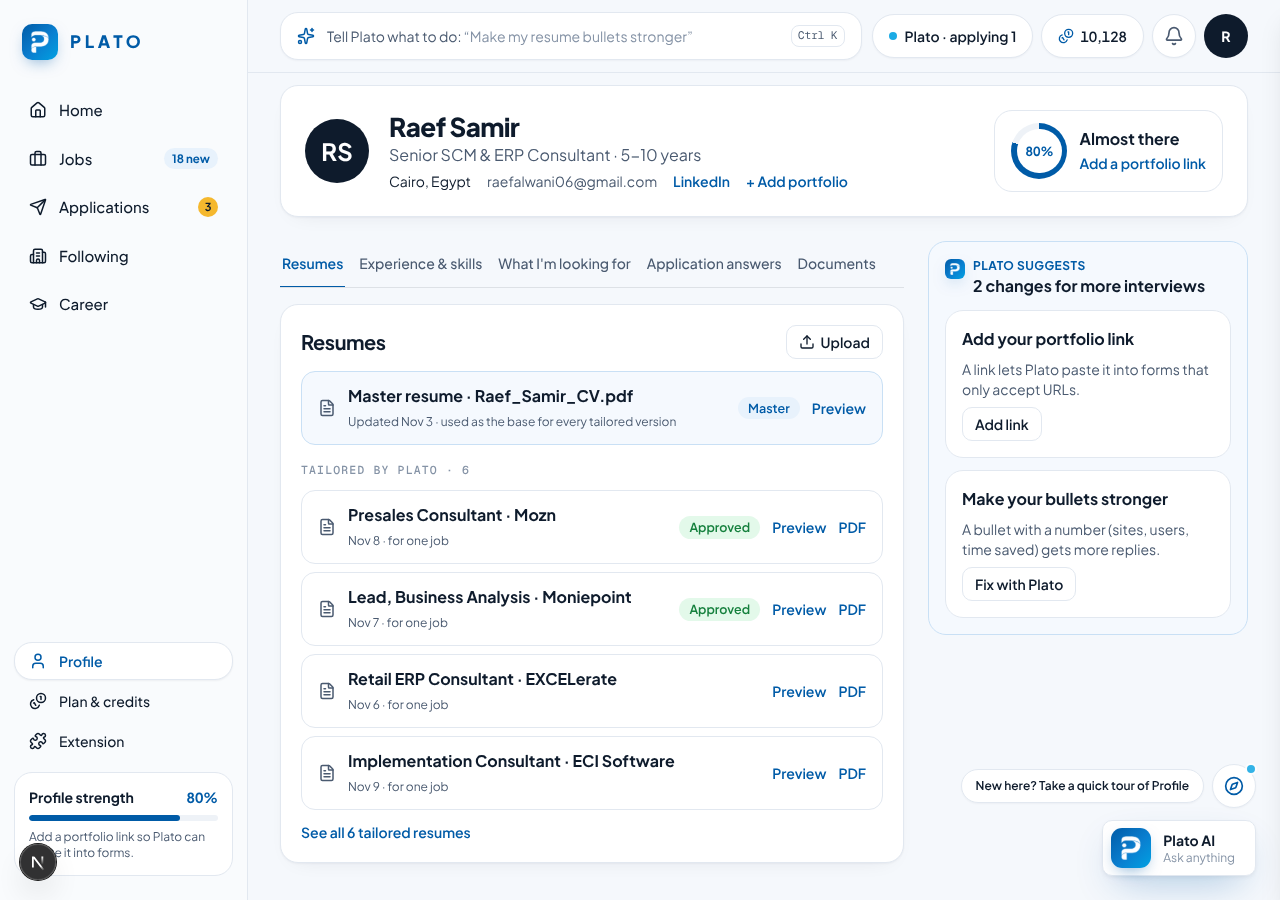
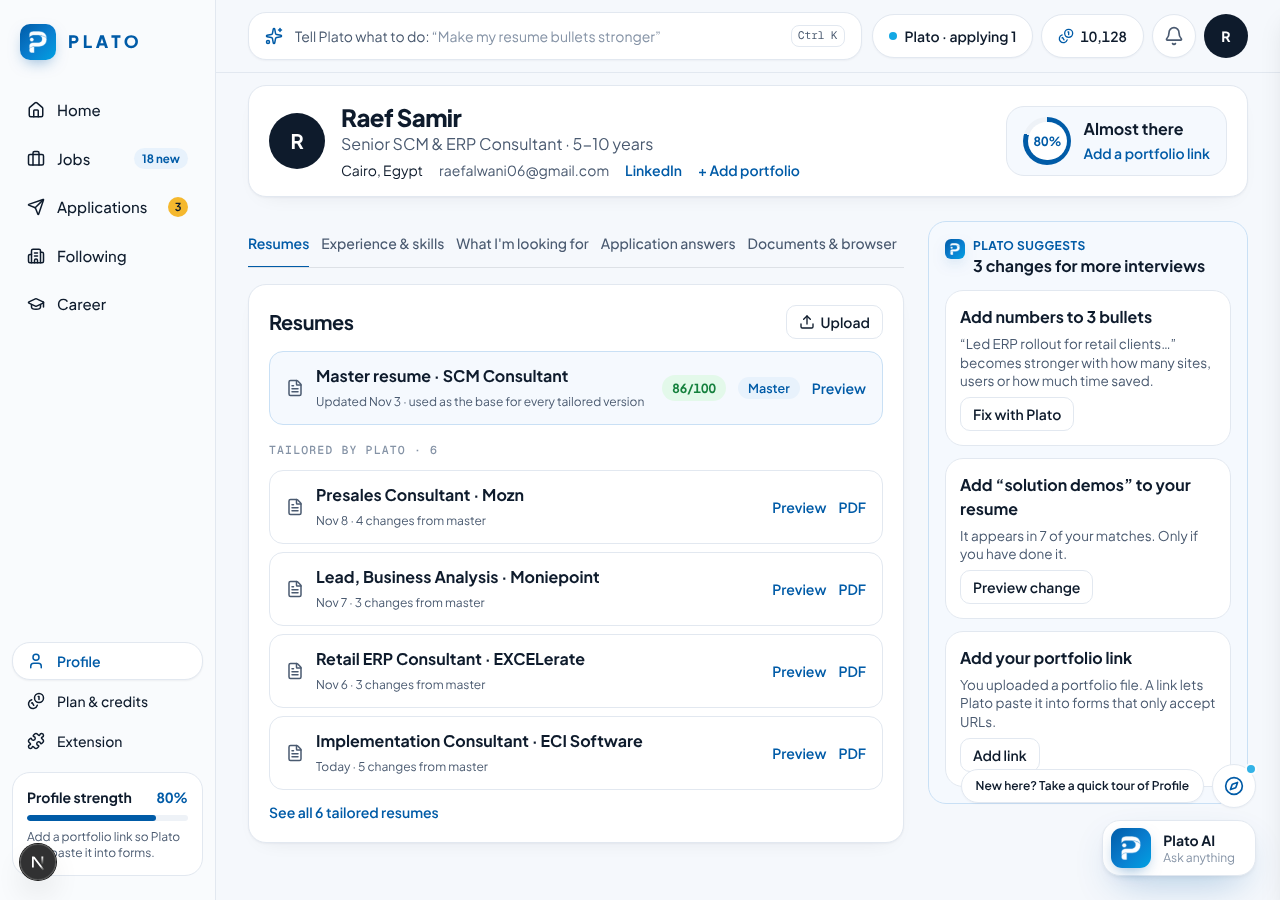
Profile matches the owner's screen 12 more closely
- Header: one-letter avatar, compact card, the strength ring on a tint.
- Tabs back to 'Documents & browser', fitting on one line.
- Master resume named after the target role; each tailored version reads
  'Nov 6 · 4 changes from master' (GET /job-seeker/career/resumes now
  counts the parts that differ from the profile).
- Plato suggests is specific, from the seeker's own data: 'Add numbers to
  3 bullets' quoting one of their bullets (the quality score now returns
  the bullets with no number), a skill that appears in N of their matches
  (only if they have done it), and the portfolio link, noting when a
  portfolio file was uploaded; the apply check's gaps follow.

Claude-Session: https://claude.ai/code/session_01VMzvXqWuLzBBxJrscGtA5K

diff --git a/plato-job-seeker-native-fe/app/(app)/profile/page.tsx b/plato-job-seeker-native-fe/app/(app)/profile/page.tsx
@@ -8,9 +8,10 @@ import { cn } from "cn"
 import { PAGE } from "@/components/page-header"
 import { Skeleton } from "@/components/ui/skeleton"
 import { MatchRing, PlatoNote, StatusPill } from "@/components/plato-ui"
-import { openPlato, useProfileStrength } from "@/components/app-shell"
+import { useProfileStrength } from "@/components/app-shell"
 import { getMe, type AuthUser } from "@/lib/auth/api"
 import { getCareerResume, getResumeScore, listCareerResumes, type ResumeScore } from "@/lib/career/api"
+import { getSkillGap, type SkillGap } from "@/lib/skills/api"
 import { getDocumentFile, getProfile, listDocuments } from "@/lib/documents/api"
 import type { JobSeekerDocument, JobSeekerProfile } from "@/lib/documents/schema"
 import { getExtensionProgress } from "@/lib/extension/api"
@@ -27,7 +28,7 @@ const TABS = [
   { key: "experience", label: "Experience & skills" },
   { key: "looking", label: "What I'm looking for" },
   { key: "answers", label: "Application answers" },
-  { key: "documents", label: "Documents" },
+  { key: "documents", label: "Documents & browser" },
 ] as const
 type Tab = (typeof TABS)[number]["key"]
 type Resume = Awaited<ReturnType<typeof listCareerResumes>>[number]
@@ -52,9 +53,19 @@ function ProfileContent() {
   const [readiness, setReadiness] = useState<ApplyReadiness | null>(null)
   const [linked, setLinked] = useState<boolean | null>(null)
   const strength = useProfileStrength()
+  const [score, setScore] = useState<ResumeScore | null>(null)
+  const [gaps, setGaps] = useState<SkillGap[] | null>(null)
+  const [hasPortfolio, setHasPortfolio] = useState(false)
 
   useEffect(() => {
     getMe().then(setUser).catch(() => undefined)
+    getResumeScore().then(setScore).catch(() => undefined)
+    getSkillGap()
+      .then((g) => setGaps(g.skills))
+      .catch(() => setGaps([]))
+    listDocuments()
+      .then((d) => setHasPortfolio(d.some((x) => x.type === "PORTFOLIO" || /portfolio/i.test(x.name ?? ""))))
+      .catch(() => undefined)
     getProfile().then(setProfile).catch(() => undefined)
     getPreferences().then(setPrefs).catch(() => undefined)
     getApplyReadiness().then(setReadiness).catch(() => undefined)
@@ -75,20 +86,35 @@ function ProfileContent() {
   ].filter(([, u]) => u) as [string, string][]
 
   // What would get more interviews, from the server's own readiness check.
-  const suggestions: { title: string; body: string; action: ReactNode }[] = [
+  // Plato suggests (screen 12): specific, from the seeker's own data. Bullets without a
+  // number (quoted), a skill their matches keep asking for, the portfolio link, then
+  // anything the apply check still misses.
+  const career = (prompt: string) => `/career?prompt=${encodeURIComponent(prompt)}`
+  const weak = score?.bulletsWithoutNumbers
+  const quote = (t: string) => {
+    const w = t.replace(/[.;]$/, "").split(/\s+/)
+    return w.length > 6 ? `${w.slice(0, 6).join(" ")}…` : w.join(" ")
+  }
+  const gap = gaps?.[0]
+  const suggestions: { title: string; body: ReactNode; action: ReactNode }[] = [
+    ...(weak?.count
+      ? [{ title: `Add numbers to ${weak.count} bullet${weak.count === 1 ? "" : "s"}`, body: weak.examples[0] ? <>&ldquo;{quote(weak.examples[0])}&rdquo; becomes stronger with how many sites, users or how much time saved.</> : "A number (sites, users, time saved) makes a bullet stronger.", action: <Link href={career("Help me add numbers to my resume bullets that have none, one at a time")}>Fix with Plato</Link> }]
+      : []),
+    ...(gap
+      ? [{ title: `Add “${gap.skill}” to your resume`, body: `It appears in ${gap.missingIn} of your matches. Only if you have done it.`, action: <Link href={career(`I have experience with ${gap.skill}. Help me show it on my resume`)}>Preview change</Link> }]
+      : []),
+    ...(prefs && !prefs.portfolio_url ? [{ title: "Add your portfolio link", body: hasPortfolio ? "You uploaded a portfolio file. A link lets Plato paste it into forms that only accept URLs." : "A link lets Plato paste it into forms that only accept URLs.", action: <Link href="/onboarding?step=2">Add link</Link> }] : []),
     ...(readiness?.missing ?? []).map((m) => ({ title: `Add ${m.label.toLowerCase()}`, body: m.why, action: <Link href="/onboarding?step=2">Add it</Link> })),
-    ...(prefs && !prefs.portfolio_url ? [{ title: "Add your portfolio link", body: "A link lets Plato paste it into forms that only accept URLs.", action: <Link href="/onboarding?step=2">Add link</Link> }] : []),
     ...(readiness?.recommended ?? []).slice(0, 2).map((r) => ({ title: "Answer once, never again", body: r.question, action: <Link href="/profile?tab=answers">Answer</Link> })),
-    { title: "Make your bullets stronger", body: "A bullet with a number (sites, users, time saved) gets more replies.", action: <button type="button" onClick={() => openPlato("Add numbers to my weakest resume bullets")}>Fix with Plato</button> },
   ].slice(0, 3)
 
   return (
     <div className={PAGE}>
       {/* Who you are to Plato, and how ready it is to apply for you. */}
-      <section data-tour="page-header" className="flex flex-wrap items-center gap-5 rounded-2xl border bg-card p-6 shadow-card">
-        <span className="flex size-16 shrink-0 items-center justify-center rounded-full bg-foreground text-2xl font-bold text-white">{user ? initials(user.full_name) : ""}</span>
+      <section data-tour="page-header" className="flex flex-wrap items-center gap-4 rounded-2xl border bg-card px-5 py-4 shadow-card">
+        <span className="flex size-14 shrink-0 items-center justify-center rounded-full bg-foreground text-xl font-bold text-white">{user ? initials(user.full_name).slice(0, 1) : ""}</span>
         <div className="min-w-[220px] flex-1">
-          <h1 className="text-[26px] leading-tight font-extrabold tracking-tight">{user ? titleCase(user.full_name) : <Skeleton className="h-7 w-48" />}</h1>
+          <h1 className="text-[24px] leading-tight font-extrabold tracking-tight">{user ? titleCase(user.full_name) : <Skeleton className="h-7 w-48" />}</h1>
           <p className="text-text-secondary">{current ? [current.title, years && !/not set/i.test(years) ? years : current.company].filter(Boolean).join(" · ") : "Your CV details appear here once Plato reads it."}</p>
           <p className="mt-1 flex flex-wrap gap-x-4 gap-y-1 text-sm">
             {location && <span>{location}</span>}
@@ -105,8 +131,8 @@ function ProfileContent() {
             )}
           </p>
         </div>
-        <div className="flex items-center gap-3 rounded-2xl border bg-card px-4 py-3">
-          <MatchRing value={pct} size={56} label={strength ? `${pct}%` : ""} />
+        <div className="flex items-center gap-3 rounded-2xl border bg-primary-tint px-4 py-2.5">
+          <MatchRing value={pct} size={48} label={strength ? `${pct}%` : ""} />
           <span>
             <b className="block">{strength && !strength.next ? "Ready to apply" : "Almost there"}</b>
             {strength?.next ? (
@@ -124,13 +150,13 @@ function ProfileContent() {
         <section className="flex min-w-0 flex-col gap-4">
           <nav role="tablist" aria-label="Profile" className="scroll-thin flex gap-3 overflow-x-auto border-b border-foreground/10">
             {TABS.map((t) => (
-              <button key={t.key} type="button" role="tab" aria-selected={tab === t.key} data-ai={`profile.tab.${t.key}`} onClick={() => router.replace(t.key === "resumes" ? "/profile" : `/profile?tab=${t.key}`, { scroll: false })} className={cn("-mb-px border-b-2 px-0.5 py-3 text-[14px] whitespace-nowrap transition-colors", tab === t.key ? "border-primary font-semibold text-primary" : "border-transparent font-medium text-text-secondary hover:text-foreground")}>
+              <button key={t.key} type="button" role="tab" aria-selected={tab === t.key} data-ai={`profile.tab.${t.key}`} onClick={() => router.replace(t.key === "resumes" ? "/profile" : `/profile?tab=${t.key}`, { scroll: false })} className={cn("-mb-px border-b-2 py-3 text-[14px] whitespace-nowrap transition-colors", tab === t.key ? "border-primary font-semibold text-primary" : "border-transparent font-medium text-text-secondary hover:text-foreground")}>
                 {t.label}
               </button>
             ))}
           </nav>
 
-          {tab === "resumes" && <ResumesTab />}
+          {tab === "resumes" && <ResumesTab role={prefs?.roles?.[0] ?? null} />}
           {tab === "experience" && (
             <div className="flex flex-col gap-4">
               {!!profile?.experiences?.length && (
@@ -186,9 +212,9 @@ function ProfileContent() {
             </b>
           </PlatoNote>
           {suggestions.map((s) => (
-            <div key={s.title} className="flex flex-col items-start gap-2 rounded-2xl border bg-card p-4">
+            <div key={s.title} className="flex flex-col items-start gap-1.5 rounded-2xl border bg-card p-3.5">
               <b>{s.title}</b>
-              <p className="text-sm text-text-secondary">{s.body}</p>
+              <p className="text-[13.5px] leading-snug text-text-secondary">{s.body}</p>
               <span className="rounded-lg border bg-card px-3 py-1.5 text-sm font-semibold text-foreground transition-colors hover:border-primary-line [&>*]:outline-none">{s.action}</span>
             </div>
           ))}
@@ -212,7 +238,7 @@ function Card({ title, action, children }: { title: string; action?: ReactNode; 
 
 // Screen 12: the master resume (the CV they uploaded, the base for everything) and the
 // versions Plato tailored from it, newest first.
-function ResumesTab() {
+function ResumesTab({ role }: { role: string | null }) {
   const [resumes, setResumes] = useState<Resume[] | null>(null)
   const [cv, setCv] = useState<JobSeekerDocument | null | undefined>(undefined)
   const [all, setAll] = useState(false)
@@ -243,7 +269,7 @@ function ResumesTab() {
         <div className="flex items-center gap-3 rounded-xl border border-primary-line bg-primary-tint px-4 py-3">
           <FileText className="size-[18px] shrink-0 text-text-secondary" />
           <span className="min-w-0 flex-1">
-            <b className="block truncate">Master resume{cv.name ? ` · ${cv.name}` : ""}</b>
+            <b className="block truncate" title={cv.name ?? undefined}>Master resume{role ? ` · ${role}` : cv.name ? ` · ${cv.name}` : ""}</b>
             <span className="text-xs text-text-secondary">{[cv.updated_at && `Updated ${shortDate(cv.updated_at)}`, "used as the base for every tailored version"].filter(Boolean).join(" · ")}</span>
           </span>
           {score && (
@@ -269,9 +295,8 @@ function ResumesTab() {
                 <FileText className="size-[18px] shrink-0 text-text-secondary" />
                 <span className="min-w-0 flex-1">
                   <b className="block truncate">{r.title}</b>
-                  <span className="text-xs text-text-secondary">{[r.created_at && shortDate(r.created_at), r.job_id ? "for one job" : (r.target_role ?? "General"), r.version > 1 && `version ${r.version}`].filter(Boolean).join(" · ")}</span>
+                  <span className="text-xs text-text-secondary">{[r.created_at && (new Date(r.created_at).toDateString() === new Date().toDateString() ? "Today" : shortDate(r.created_at)), r.changes != null ? `${r.changes} change${r.changes === 1 ? "" : "s"} from master` : (r.target_role ?? "General")].filter(Boolean).join(" · ")}</span>
                 </span>
-                {r.approved && <StatusPill tone="success">Approved</StatusPill>}
                 <button type="button" onClick={() => void open(() => getCareerResume(r.id))} className="text-sm font-semibold text-primary hover:underline">
                   Preview
                 </button>

diff --git a/plato-job-seeker-native-fe/lib/career/api.ts b/plato-job-seeker-native-fe/lib/career/api.ts
@@ -94,7 +94,7 @@ const suggestResumeText = (id: string, req: { section: "summary" | "experience" 
 export type ResumeChange = { section: "summary" | "experience" | "keywords"; before: string | null; after: string }
 // Resume scores by fixed rules on the server (resume/resume-score.ts): 85+ strong, 75+ good, 60+ fair.
 export type ScoreBand = "strong" | "good" | "fair" | "needs_work"
-export type ResumeScore = { score: number; band: ScoreBand; categories: { key: string; label: string; score: number; max: number; tips: string[] }[]; topFixes: string[] }
+export type ResumeScore = { score: number; band: ScoreBand; categories: { key: string; label: string; score: number; max: number; tips: string[] }[]; topFixes: string[]; bulletsWithoutNumbers?: { count: number; examples: string[] } }
 export type MatchScore = ResumeScore & { decision: "send" | "confirm" | "hold" }
 export const getResumeScore = () => request<ResumeScore & { warn: boolean; thresholds: { autoApply: number; confirm: number; masterWarn: number } }>(apiClient.get("/job-seeker/career/resume-score"))
 export const BAND_LABEL: Record<ScoreBand, string> = { strong: "Strong", good: "Good", fair: "Fair", needs_work: "Needs work" }
@@ -114,5 +114,5 @@ const startVoiceSession = (threadId: string, req: { mode: VoiceMode; skill?: str
 const saveVoiceTranscript = (threadId: string, body: { mode: VoiceMode; seconds: number; turns: { role: "user" | "assistant"; text: string }[]; usage?: VoiceUsage }) =>
   request<{ saved: number }>(apiClient.post(`/job-seeker/career/threads/${threadId}/voice/transcript`, body))
 
-const listCareerResumes = () => request<{ id: string; title: string; target_role: string | null; version: number; approved: boolean; job_id?: string | null; created_at?: string }[]>(apiClient.get("/job-seeker/career/resumes"))
+const listCareerResumes = () => request<{ id: string; title: string; target_role: string | null; version: number; approved: boolean; job_id?: string | null; created_at?: string; changes?: number | null }[]>(apiClient.get("/job-seeker/career/resumes"))
 export { listCareerResumes, startVoiceSession, saveVoiceTranscript, getResumeDoc, saveResumeEdits, suggestResumeText, approveResume, streamCareerMessage, createCareerThread, listCareerThreads, getCareerThread, sendCareerMessage, getCareerResume }

diff --git a/plato-native-be/src/modules/career/career-resumes.service.ts b/plato-native-be/src/modules/career/career-resumes.service.ts
@@ -65,12 +65,14 @@ export class CareerResumesService {
     };
   }
 
-  list(userId: string) {
-    return this.prisma.careerResume.findMany({
+  // Each resume with how many parts differ from the master (profile): "4 changes from master".
+  async list(userId: string) {
+    const rows = await this.prisma.careerResume.findMany({
       where: { job_seeker: { user_id: userId } },
       orderBy: { created_at: 'desc' },
       select: {
         id: true,
+        job_seeker_id: true,
         title: true,
         target_role: true,
         version: true,
@@ -78,7 +80,25 @@ export class CareerResumesService {
         edited: true,
         job_id: true,
         created_at: true,
+        doc: true,
+        strategy: true,
       },
+    });
+    const profile = rows.length
+      ? await this.profiles.load(rows[0].job_seeker_id).catch(() => null)
+      : null;
+    return rows.map((row) => {
+      const { doc, strategy, ...rest } = row;
+      const r = { ...rest, job_seeker_id: undefined };
+      const d = doc as unknown as ResumeDoc | null;
+      const ats = (strategy as { ats?: AtsReport | null } | null)?.ats ?? null;
+      let changes: number | null = null;
+      try {
+        changes = profile && d ? resumeChanges(profile, d, ats).length : null;
+      } catch {
+        changes = null;
+      }
+      return { ...r, changes };
     });
   }
 

diff --git a/plato-native-be/src/modules/resume/resume-score.spec.ts b/plato-native-be/src/modules/resume/resume-score.spec.ts
@@ -109,6 +109,28 @@ describe('resume quality score (master resume)', () => {
     expect(s.topFixes[0]).toMatch(/number/i);
   });
 
+  it('quotes the bullets that have no number, for a concrete suggestion', () => {
+    const s = scoreProfile(base);
+    expect(s.bulletsWithoutNumbers?.count).toBe(0);
+    const plain = scoreProfile({
+      ...base,
+      experiences: [
+        {
+          ...base.experiences[0],
+          description:
+            'Led the ERP rollout for the retail group.\nRan client demos for new accounts.',
+        },
+      ],
+    });
+    expect(plain.bulletsWithoutNumbers).toEqual({
+      count: 2,
+      examples: [
+        'Led the ERP rollout for the retail group.',
+        'Ran client demos for new accounts.',
+      ],
+    });
+  });
+
   it('is the same every time for the same resume', () => {
     expect(scoreProfile(base)).toEqual(scoreProfile(base));
   });

diff --git a/plato-native-be/src/modules/resume/resume-score.ts b/plato-native-be/src/modules/resume/resume-score.ts
@@ -53,6 +53,9 @@ export interface ResumeScore {
   categories: ScoreCategory[];
   // The three changes worth the most points, biggest first.
   topFixes: string[];
+  // Quality score only: the seeker's own bullets that carry no number, to quote
+  // in a suggestion ("Led ERP rollout" becomes stronger with how many sites...).
+  bulletsWithoutNumbers?: { count: number; examples: string[] };
 }
 
 const round = (n: number) => Math.round(n * 10) / 10;
@@ -306,7 +309,11 @@ export function scoreProfile(p: ResumeProfile): ResumeScore {
     },
   ]);
 
-  return finish([structure, impact, style, brevity, intro, skills, coherence]);
+  const plain = bullets.filter((b) => !QUANT.test(b));
+  return {
+    ...finish([structure, impact, style, brevity, intro, skills, coherence]),
+    bulletsWithoutNumbers: { count: plain.length, examples: plain.slice(0, 3) },
+  };
 }
 
 /**
